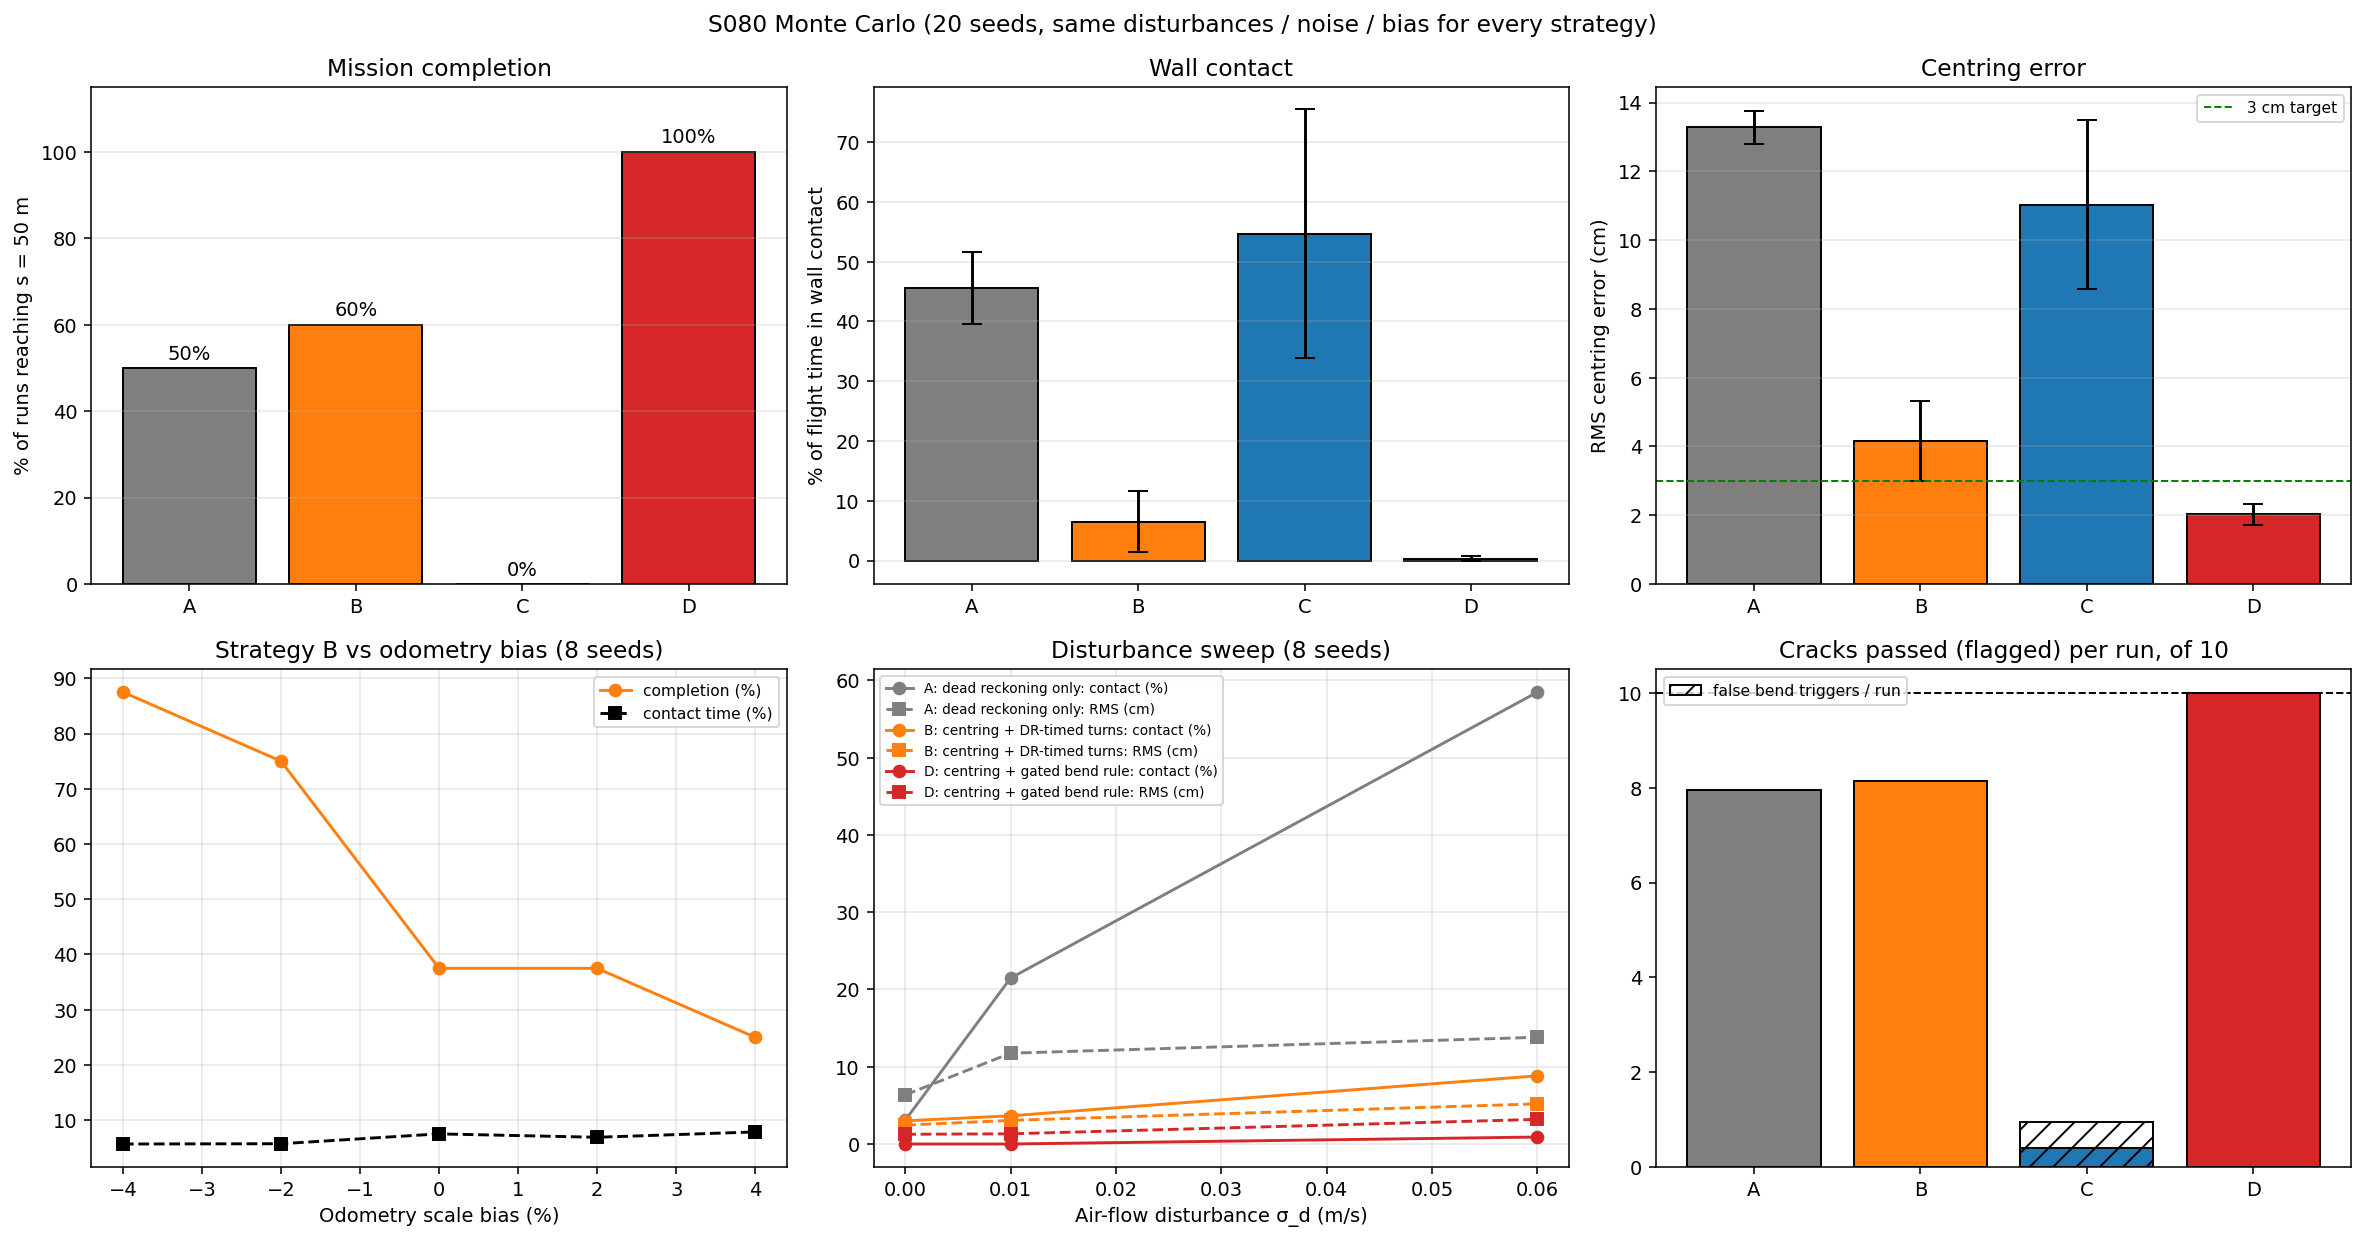
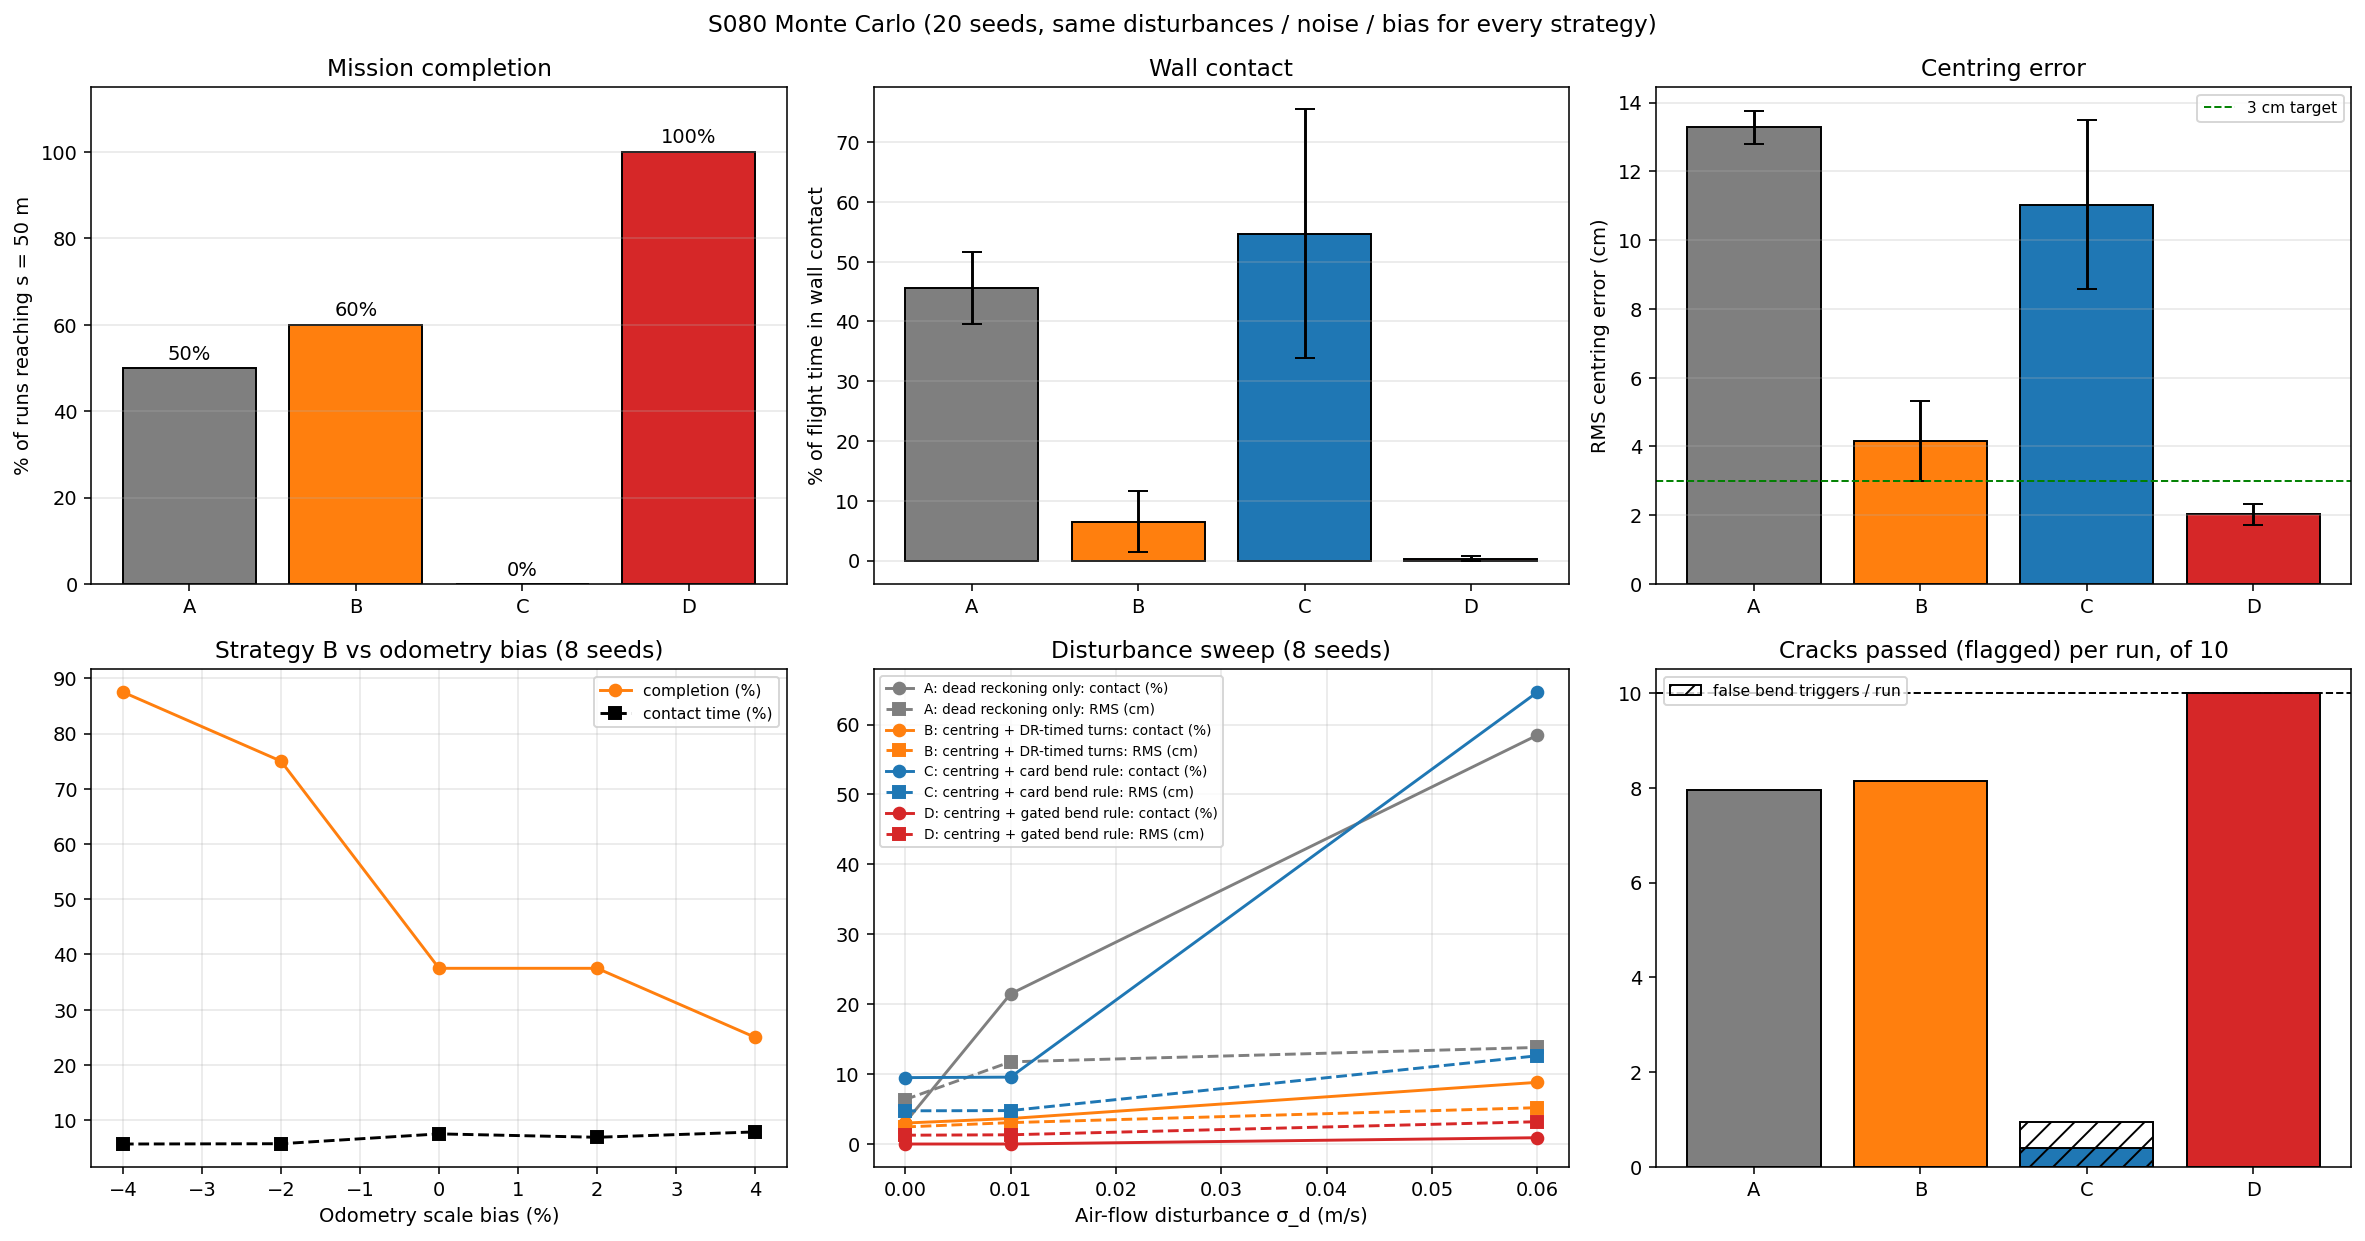
Fix S080 Underground Pipe CCTV Replacement: address review follow-ups
Add strategy C to the disturbance sweep and a clean (no air flow, no bias)
case; correct why the card's bend rule fails (early turn; false triggers
come from the air flow); tidy the near_segments line continuation.

diff --git a/src/04_industrial_agriculture/s080_underground_pipe.py b/src/04_industrial_agriculture/s080_underground_pipe.py
@@ -174,7 +174,8 @@ def near_segments(p, margin=MAX_RANGE + DRONE_R + 0.05):
     out = []
     for sg in SEGS:
         a, q = _local(sg, p)
-        if sg['lo'] - margin <= a <= sg['hi'] + margin and                 q[0] ** 2 + q[1] ** 2 + q[2] ** 2 <= (PIPE_R + margin) ** 2:
+        if sg['lo'] - margin <= a <= sg['hi'] + margin and \
+                q[0] ** 2 + q[1] ** 2 + q[2] ** 2 <= (PIPE_R + margin) ** 2:
             out.append(sg)
     return out
 
@@ -381,8 +382,11 @@ def run_simulation():
     mc = {st: [simulate(st, s) for s in range(N_MC)] for st in STRATS}
     bias_sweep = [[simulate('B', s, bias=b) for s in range(N_SWEEP)] for b in BIAS_SWEEP]
     sig_sweep = {st: [[simulate(st, s, sigma_d=sg) for s in range(N_SWEEP)] for sg in SIGMA_SWEEP]
-                 for st in ('A', 'B', 'D')}
-    return single, mc, bias_sweep, sig_sweep
+                 for st in STRATS}
+    # clean case: no air flow and no speed bias (only the card's sensor and odometry noise)
+    clean = {st: [simulate(st, s, sigma_d=0.0, bias=0.0, keep=(s == SEED))
+                  for s in range(N_SWEEP)] for st in STRATS}
+    return single, mc, bias_sweep, sig_sweep, clean
 
 
 def summ(runs):
@@ -544,7 +548,7 @@ def plot_monte_carlo(sm, bias_sweep, sig_sweep, out_dir):
     a.set_xlabel('Odometry scale bias (%)'); a.set_title(f'Strategy B vs odometry bias ({N_SWEEP} seeds)')
     a.legend(fontsize=8); a.grid(alpha=0.3)
     a = axes[1, 1]
-    for st in ('A', 'B', 'D'):
+    for st in STRATS:
         ss = [summ(rs) for rs in sig_sweep[st]]
         a.plot(SIGMA_SWEEP, [100 * s['contact'] for s in ss], 'o-', color=COLORS[st],
                label=f'{LABELS[st]}: contact (%)')
@@ -610,7 +614,7 @@ def save_animation(single, out_dir):
 # ── Main ──────────────────────────────────────────────────────────────────────
 
 if __name__ == '__main__':
-    single, mc, bias_sweep, sig_sweep = run_simulation()
+    single, mc, bias_sweep, sig_sweep, clean = run_simulation()
     sm = {st: summ(mc[st]) for st in STRATS}
     print('=== S080 Underground Pipe CCTV Replacement — Results ===')
     p0 = SEGS[0]['A'] + np.array([3.0, 0, 0])
@@ -651,14 +655,27 @@ if __name__ == '__main__':
     for b, rs in zip(BIAS_SWEEP, bias_sweep):
         s = summ(rs)
         print(f'    {100 * b:+.0f}%: {100 * s["complete"]:.0f}%, {100 * s["contact"]:.2f}%')
-    print('  Disturbance sweep (sigma_d: contact % / RMS cm / complete % per strategy):')
-    for i, sg in enumerate(SIGMA_SWEEP):
+    print('  Disturbance sweep (sigma_d: contact % / RMS cm / complete % / false triggers per run '
+          '/ mean s reached, per strategy; bias ~ N(0, 2%)):')
+    for i, sg in enumerate(SIGMA_SWEEP + [SIGMA_D]):
         parts = []
-        for st in ('A', 'B', 'D'):
-            s = summ(sig_sweep[st][i])
+        for st in STRATS:
+            s = summ(sig_sweep[st][i]) if i < len(SIGMA_SWEEP) else summ(mc[st][:N_SWEEP])
             parts.append(f'{st} {100 * s["contact"]:.2f}% / {100 * s["rms"]:.2f} cm / '
-                         f'{100 * s["complete"]:.0f}%')
-        print(f'    {sg:.2f} m/s: ' + '; '.join(parts))
+                         f'{100 * s["complete"]:.0f}% / {s["false_trig"]:.3f} / {s["s_reached"]:.1f} m')
+        tag = ' (first 8 main MC seeds)' if i == len(SIGMA_SWEEP) else ''
+        print(f'    {sg:.2f} m/s{tag}: ' + '; '.join(parts))
+    print(f'  Clean case, no air flow and no bias ({N_SWEEP} seeds): ' + '; '.join(
+        f'{st} complete {100 * summ(clean[st])["complete"]:.0f}%, false triggers '
+        f'{summ(clean[st])["false_trig"]:.3f}/run, mean s reached {summ(clean[st])["s_reached"]:.2f} m'
+        for st in STRATS))
+    rc = clean['C'][SEED]
+    ev = [i for i, e in enumerate(rc['log']['event']) if e in ('detect', 'false')]
+    if ev:
+        s_det = rc['log']['s'][ev[0]]
+        print(f'  Clean case, C seed {SEED}: bend detected at s = {s_det:.2f} m '
+              f'({ELBOW_S[0] - s_det:.2f} m before the elbow centre), turns at once; '
+              f'{rc["status"]} at s = {rc["s_reached"]:.2f} m')
 
     out = os.path.normpath(OUTPUT_DIR)
     os.makedirs(out, exist_ok=True)

diff --git a/outputs/04_industrial_agriculture/s080_underground_pipe/README.md b/outputs/04_industrial_agriculture/s080_underground_pipe/README.md
@@ -74,7 +74,7 @@ The new heading is $\hat{\mathbf{h}}_{new} = \hat{\mathbf{n}}_{bend}$. The card'
 | Heading blend $t_{blend}$ | 0.5 s |
 | Odometry noise $\sigma_v$ | 0.002 m/s |
 | Speed-calibration bias $b$ (added) | $\mathcal{N}(0, 2\%)$ per seed; sweep −4, −2, 0, +2, +4 % |
-| Air-flow disturbance (added) | OU, $\sigma_d$ = 0.03 m/s, $\tau_d$ = 2 s; sweep 0, 0.01, 0.06 m/s |
+| Air-flow disturbance (added) | OU, $\sigma_d$ = 0.03 m/s, $\tau_d$ = 2 s; sweep 0, 0.01, 0.06 m/s (all four strategies); clean case with no air flow and no bias (8 seeds) |
 | Cracks | 10, $s \sim U(2, 48)$ m, intensity $U(20, 60)$, threshold 80, range 0.3 m |
 | Time step / time limit / stuck rule | 0.05 s / 400 s / < 5 cm progress in 10 s |
 | Monte Carlo | 20 seeds; sweeps 8 seeds per point. Each seed fixes the disturbance, sensor noise, odometry noise, bias and cracks for every strategy. |
@@ -93,7 +93,7 @@ conda activate drones
 python src/04_industrial_agriculture/s080_underground_pipe.py
 ```
 
-Runtime ≈ 3 min (170–182 s measured while other simulations shared the CPU).
+Runtime ≈ 3–4 min (165–244 s measured while other simulations shared the CPU).
 
 ---
 
@@ -121,10 +121,13 @@ Paired by seed, D and B both complete 12 runs, only D completes 8, and only B co
 
 **Key findings**:
 - **Only the gated, sensor-based bend rule (D) is reliable.** It completed all 20 runs with an RMS centring error of 2.02 cm, meeting the card's 3 cm target, and flagged every crack. It is not contact-free, though. Contact lasts 0.27 % of the flight time (0.8 events per run), mostly just after the second and third elbows, where the drone exits the turn up to 15 cm off-centre (seed 0 centring plot). So the card's "zero wall contacts" target is not met.
-- **The card's own bend rule (C) fails at once.** With 5 mm sensor noise and the card's PD gains, the drone often wanders 2–3 cm off-centre (seed 0 centring plot), and $|d_N - d_S| > 6$ cm fires in the straight pipe: 0.95 false triggers per run. The drone then turns into the wall and sticks, at a mean of 3.0 m. A real elbow would also be taken one radius (0.25 m) too early, because the asymmetry appears as soon as the opening comes into view.
+- **The card's own bend rule (C) fails for two separate reasons.**
+  - **It turns too early at a real elbow.** This happens even without any disturbance. In the clean case (no air flow, no bias, 8 seeds), C makes no false triggers but completes 0 runs and stops at a mean of 14.82 m. At seed 0 it detects the first elbow at s = 14.77 m, 0.23 m before the elbow centre, because the asymmetry appears as soon as the opening comes into view. It turns at once and sticks against the side wall.
+  - **The added air flow causes false triggers in straight pipe.** At σ_d = 0 and 0.01 m/s there are 0.000 false triggers per run. At 0.03 m/s (first 8 main seeds) there are 1.000 per run, and C stops at a mean of 2.9 m. At 0.06 m/s there are 2.000 per run, stopping at 0.7 m. The air flow pushes the drone 3 cm or more off-centre, so $|d_N - d_S| > 6$ cm fires. Sensor noise alone (5 mm) does not trigger it.
+  - In the main Monte Carlo, C averages 0.95 false triggers per run and stops at a mean of 3.0 m.
 - **Dead-reckoned turn timing (A, B) is the weak link without wall sensing.** Integrating the commanded speed ignores the air-flow disturbance and the speed bias. At seed 0, both A and B turned early at the third elbow (DR error 1.79 m at the end) and stuck at s ≈ 42.6 m. Centring (B) cuts contact time from 45.60 % to 6.51 % and the RMS error from 13.28 to 4.16 cm, but it cannot fix where the drone turns.
 - **Late turns are recoverable, early turns are not.** For B, completion is 88 % with a −4 % bias, 75 % at −2 %, 38 % at 0 % and +2 %, and 25 % at +4 %. A negative bias makes dead reckoning underestimate the distance, so the drone reaches the elbow's end wall first. It slides there until dead reckoning catches up, then turns into the new leg. An early turn sends it into the side wall of the old leg, where it sticks. Even with zero bias, only 38 % of B runs complete, because the air flow alone shifts the dead-reckoned elbow positions.
-- **Disturbance sweep.** With no air flow (σ_d = 0), A and B still fail 25 % of runs (75 % complete), only from the random speed bias. D completes 100 % at every disturbance level tested (0, 0.01, 0.06 m/s), with RMS 1.26, 1.32 and 3.19 cm and at most 0.90 % contact time. A's contact time rises from 3.06 % to 58.50 % as the air flow grows.
+- **Disturbance sweep and clean case.** With neither air flow nor speed bias, A, B and D all complete 100 % of runs; only C fails, because of its early turns. With no air flow but the random speed bias (σ_d = 0 in the sweep), A and B complete 75 %. D completes 100 % at every disturbance level tested (0, 0.01, 0.06 m/s), with RMS 1.26, 1.32 and 3.19 cm and at most 0.90 % contact time. A's contact time rises from 3.06 % to 58.50 % as the air flow grows. So the disturbance and bias are what separate the dead-reckoning strategies (A, B) from the sensor-based one (D).
 - **Crack detection is fixed by construction in the card's model.** Every crack the drone passes is flagged (intensity 20–60 < 80), so the crack count only measures how far the drone gets. It is not compared as a detection-quality metric.
 
 ### 3D Pipe Path (strategy D, seed 0)
@@ -166,12 +169,12 @@ Strategy D, seed 0, 3D view: the true path in red and dead reckoning in orange. 
 | Card | Implementation | Reason |
 |------|----------------|--------|
 | Single navigation method; the card's code feeds the controller constant readings (placeholder) | Readings ray-cast against the real pipe and elbows; four strategies A–D compared | The card's code never senses the pipe, so it cannot test centring or bend detection. Comparing strategies answers whether the card's method works. |
-| Bend rule $\lvert d_k - d_{opp}\rvert > 0.06$ m, turn at once (C, kept) | Added D: gate 0.42 m, 0.25 m delay, refractory 1 m | C false-triggers 0.95 times per run and completes 0 %. Card annotated. |
+| Bend rule $\lvert d_k - d_{opp}\rvert > 0.06$ m, turn at once (C, kept) | Added D: gate 0.42 m, 0.25 m delay, refractory 1 m | C completes 0 %. Even without disturbance it turns 0.23 m early (seed 0) and sticks. With the added air flow it also false-triggers (0.95 per run in the main Monte Carlo). Card annotated. |
 | $\hat{\mathbf{h}}_{new} = \hat{\mathbf{h}} \times \hat{\mathbf{n}}_{bend}$ | $\hat{\mathbf{h}}_{new} = \hat{\mathbf{n}}_{bend}$ | The cross product gives (0, −1, 0) for a +x→+z bend (printed by the script). Card corrected. |
 | $d_k^{true} = r_{clear} - \delta_k$ | Skin distance $R - r_{drone} - \delta_k$ (by ray casting) | The card's formula gives 0.25 m for a centred drone, contradicting its own 0.15 m. Card corrected. |
 | $\sigma_{DR} = \sigma_v\sqrt{t}$ = 0.032 m at 250 s | Noise-only error $\sigma_v\sqrt{\Delta t\,t}$ = 0.0071 m; the dominant DR error is commanded-vs-actual speed (bias, disturbance) | Dimensionally corrected; final DR errors of 0.69–1.88 m at seed 0. Card annotated. |
 | Planar DR $(\cos\hat\theta, \sin\hat\theta, 0)$ | DR along the 3D heading | The pipe has a vertical leg. |
-| No disturbance other than 0.002 m/s velocity noise | OU air flow ($\sigma_d$ = 0.03 m/s, $\tau_d$ = 2 s), speed bias $\mathcal{N}(0, 2\%)$; both swept | Without them, every strategy trivially succeeds. The sweeps show how the ranking depends on them (D is unaffected). |
+| No disturbance other than 0.002 m/s velocity noise | OU air flow ($\sigma_d$ = 0.03 m/s, $\tau_d$ = 2 s), speed bias $\mathcal{N}(0, 2\%)$; both swept, plus a clean case without either | Without them, A, B and D all complete every run (clean case), so the comparison could not separate dead reckoning from wall sensing; C fails either way. The sweeps show how the ranking depends on them (D is unaffected). |
 | Card code clamps the drone to the budget and keeps going | Same clamp (sliding along the wall), plus stuck detection | An early turn drives the drone into a side wall it cannot leave. |
 | Elbow planes ['xz', 'xy', 'xz'] | ['xz', 'yz', 'xy'] | Matches the card's own leg headings. Card corrected. |
 | Crack detection by frame intensity | Card model kept (always flagged when within 0.3 m) | Reported as "cracks passed", not as detection quality. |

diff --git a/scenarios/04_industrial_agriculture/S080_underground_pipe.md b/scenarios/04_industrial_agriculture/S080_underground_pipe.md
@@ -116,10 +116,13 @@ $$\hat{\mathbf{h}}_{new} = \hat{\mathbf{n}}_{bend}$$
 > perpendicular to both vectors. For $\hat{\mathbf{h}} = +x$ and $\hat{\mathbf{n}}_{bend} = +z$ it gives
 > $(0, -1, 0)$, not the bend direction $+z$.
 >
-> **Correction (implementation)**: with $\sigma_{wall}$ = 5 mm and these PD gains, the drone drifts
-> 2–3 cm off-centre often enough that $|d_k - d_{opp}| > 6$ cm fires in the middle of straight
-> pipe. A turn triggered at the first asymmetry is also 0.25 m (one pipe radius) early. In 20
-> Monte Carlo runs this rule triggered 0.95 false bends per run and completed none. The
+> **Correction (implementation)**: a turn triggered at the first asymmetry is about one pipe radius
+> early. The asymmetry appears as soon as the opening comes into view, 0.23 m before the elbow
+> centre in the simulation. The drone then sticks against the side wall, even with no
+> disturbance (0 of 8 clean runs complete). Sensor noise alone (5 mm) does not cause false
+> triggers. With an air-flow disturbance pushing the drone 3 cm or more off-centre,
+> $|d_k - d_{opp}| > 6$ cm also fires in straight pipe: 0.95 false bends per run at
+> $\sigma_d$ = 0.03 m/s in 20 Monte Carlo runs. The
 > implementation's working variant detects a bend only when a reading is longer than any
 > straight pipe allows (> 0.42 m). It then advances one radius to the elbow centre before
 > turning.
